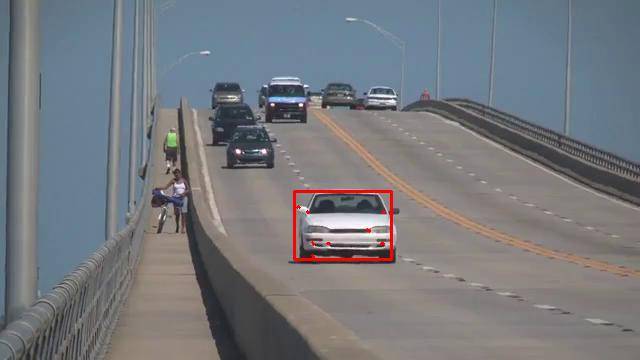
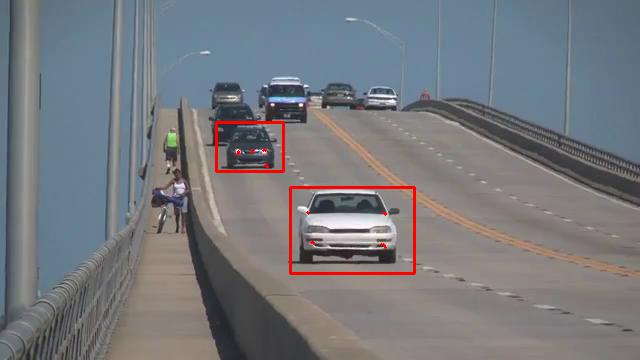
two object tracking DONE

Changed region(s): [[0.3125, 0.3056, 0.6562, 0.7639]]

diff --git a/objectTracking.py b/objectTracking.py
@@ -8,24 +8,21 @@ import cv2
 import numpy as np
 import matplotlib.pyplot as plt
 from applyGeometricTransformation import applyGeometricTransformation
+import imageio
 
 
 def objectTracking(rawVideo):
     videodata = skvideo.io.vread(rawVideo)
-    videodata = videodata[:30,:,:,:] # ONLY for testing, need to be comment out
+    videodata = videodata[:50,:,:,:] # ONLY for testing, need to be comment out
     scipy.misc.imsave('firstFrame.jpg', videodata[0,:,:,:])
-    num_of_box = 1
-    expected_feat_per_box = 8
+    num_of_box = 2
+    expected_feat_per_box = 4
+    windowSize = 10
 
     #for first frame
     img1_gray = rgb2gray(videodata[0,:,:,:])
     coor_matrix = boundingBox('firstFrame.jpg',num_of_box) #get x,y,w,h for bounding box
     feat_x, feat_y = getFeatures(img1_gray,coor_matrix,expected_feat_per_box) #get x,y for feature points
-    #     #get color for points
-    # scaled_itera = np.array(range(len(feat_x)))/(float(len(feat_x))-1)
-    # colors = plt.cm.coolwarm(scaled_itera)
-    # print(colors[:3])
-    # img1 = np.array(plt.scatter(feat_x, feat_y, color=colors))
     feat_x_flatten = feat_x.flatten()
     feat_y_flatten = feat_y.flatten()
     videodata[0,:,:,:][feat_y_flatten, feat_x_flatten] = [255,0,0]
@@ -37,17 +34,16 @@ def objectTracking(rawVideo):
     y = coor_matrix[:,1]
     w = coor_matrix[:,2]
     h = coor_matrix[:,3]
-    upperleft_corner=(x,y)
-    lowerright_corner = (x+w,y+h)
-    videodata[0,:,:,:] = cv2.rectangle(videodata[0,:,:,:], upperleft_corner, lowerright_corner, (255, 0, 0), 2)
+    upperleft_corner=np.array([x,y])
+    lowerright_corner = np.array([x+w,y+h])
+    for i in range(x.shape[0]):
+        videodata[0,:,:,:] = cv2.rectangle(videodata[0,:,:,:], tuple(upperleft_corner[:,i]), tuple(lowerright_corner[:,i]), (255, 0, 0), 2)
     scipy.misc.imsave(str(0)+'thFrame.jpg', videodata[0,:,:,:])
-    plt.imshow(videodata[0,:,:,:])
-    plt.show()
 
 
     for i in range(1,videodata.shape[0]):
         img2_gray = rgb2gray(videodata[i,:,:,:])
-        new_feat_x, new_feat_y = estimateAllTranslation(feat_x,feat_y,img1_gray,img2_gray)
+        new_feat_x, new_feat_y = estimateAllTranslation(feat_x,feat_y,img1_gray,img2_gray, windowSize)
         new_feat_x, new_feat_y, new_coor_matrix = applyGeometricTransformation(\
             feat_x, feat_y, new_feat_x, new_feat_y, coor_matrix)
         #plot feature points
@@ -58,24 +54,29 @@ def objectTracking(rawVideo):
         videodata[i,:,:,:][feat_y_flatten+1, feat_x_flatten] = [255,0,0]
         videodata[i,:,:,:][feat_y_flatten, feat_x_flatten-1] = [255,0,0]
         videodata[i,:,:,:][feat_y_flatten, feat_x_flatten+1] = [255,0,0]
+
         #plot bounding box
         x = new_coor_matrix[:,0]
         y = new_coor_matrix[:,1]
         w = new_coor_matrix[:,2]
         h = new_coor_matrix[:,3]
-        upperleft_corner=(x,y)
-        lowerright_corner = (x+w,y+h)
-        videodata[i,:,:,:] = cv2.rectangle(videodata[i,:,:,:], upperleft_corner, lowerright_corner, (255, 0, 0), 2)
+        upperleft_corner=np.array([x,y])
+        lowerright_corner = np.array([x+w,y+h])
+        for j in range(x.shape[0]):
+            videodata[i,:,:,:] = cv2.rectangle(videodata[i,:,:,:], tuple(upperleft_corner[:,j]), tuple(lowerright_corner[:,j]), (255, 0, 0), 2)
         scipy.misc.imsave(str(i)+'thFrame.jpg', videodata[i,:,:,:])
-        plt.imshow(videodata[i,:,:,:])
-        plt.show()
+        # plt.imshow(videodata[i,:,:,:])
+        # plt.show()
 
         #updating
         img1_gray = img2_gray
         coor_matrix = new_coor_matrix
         feat_x, feat_y = new_feat_x, new_feat_y
 
-
+    tracking_list = []
+    for i in range(videodata.shape[0]):
+        tracking_list.append(videodata[i, :, :, :])
+        imageio.mimsave('./eval_tracking.gif', tracking_list)
 
 if __name__== '__main__':
     file_name = 'Easy.mp4'

diff --git a/estimateFeatureTranslation.py b/estimateFeatureTranslation.py
@@ -1,36 +1,17 @@
-"""
-[newX, newY] = estimateFeatureTranslation(startX, startY, Ix, Iy, img1, img2)
-• (INPUT) startX: Represents the starting X coordinate for a single feature in the first frame
-• (INPUT) startY: Represents the starting Y coordinate for a single feature in the first frame
-• (INPUT) Ix: H × W matrix representing the gradient along the X-direction
-• (INPUT) Iy: H × W matrix representing the gradient along the Y-direction
-• (INPUT)img1:H×W×3matrixrepresentingthefirstimageframe
-• (INPUT)img2:H×W×3matrixrepresentingthesecondimageframe
-• (OUTPUT) newX: Represents the new X coordinate for a single feature in the second frame
-• (OUTPUT) newY: Represents the new Y coordinate for a single feature in the second frame
-"""
-
 import numpy as np
 from interp import interp2
 
 # img1, img2: gray scale
 def estimateFeatureTranslation(startX, startY, Ix, Iy, img1, img2, windowSize):
-    # # pad the images and coordinator
-    # img1 = np.pad(img1, ((windowSize, windowSize), (windowSize, windowSize)), 'constant')
-    # img2 = np.pad(img2, ((windowSize, windowSize), (windowSize, windowSize)), 'constant')
-    # Ix = np.pad(Ix, ((windowSize, windowSize), (windowSize, windowSize)), 'constant')
-    # Iy = np.pad(Iy, ((windowSize, windowSize), (windowSize, windowSize)), 'constant')
-    # startX = startX + windowSize
-    # startY = startY + windowSize
 
     newX = startX
     newY = startY
-    tol = 0.1
-    # error = 1
+    tol = 0.01
     midWindow = np.floor(windowSize/2)
     img1_window_start_x = int(startX-midWindow)
     img1_window_start_y = int(startY-midWindow)
-    max_iter = 100
+    max_iter = 1000
+
     for _ in range(max_iter):
         window_start_x = int(newX-midWindow)
         window_start_y = int(newY-midWindow)
@@ -55,49 +36,20 @@ def estimateFeatureTranslation(startX, startY, Ix, Iy, img1, img2, windowSize):
         b = It_window.flatten()
         b = -b
 
-        # difference = np.linalg.solve(A.transpose()@A,A.transpose()@b)
-
         A_pinv = np.linalg.pinv(A.transpose()@A)
 
         b = A.transpose()@b
 
         difference = A_pinv@b
-
-
-
-
-
-        # second_moment=np.zeros([2,2])
-        # second_moment[0,0] = np.sum(Ix_window*Ix_window)
-        # second_moment[0,1] = np.sum(Ix_window*Iy_window)
-        # second_moment[1,0] = np.sum(Iy_window*Ix_window)
-        # second_moment[1,1] = np.sum(Iy_window*Iy_window)
-        # b = np.zeros([2,1])
-        # b[0,0] = np.sum(Ix_window*It_window)
-        # b[1,0] = np.sum(Iy_window*It_window)
-        # b = -b
-        # inverse_second_moment = np.linalg.inv(second_moment)
-        # difference = np.dot(inverse_second_moment, b)
-
-        # difference = np.linalg.lstsq(second_moment,b)[0]
         u = difference[0]
         v = difference[1]
 
         # updating
-        # newX = newX + u
-        # newY = newY + v
-
         ZX = newX + u
         ZY = newY + v
-
         if np.sqrt((ZX-newX)**2+(ZY-newY)**2)<tol:
             return ZX, ZY
-
         newX = ZX
         newY = ZY
 
-        # error = np.linalg.norm(It_window)
-
-    # newX = newX-windowSize
-    # newY = newY-windowSize
     return newX, newY

diff --git a/applyGeometricTransformation.py b/applyGeometricTransformation.py
@@ -17,7 +17,7 @@ def xywh_to_ptsxy(bbox):
     return bbox_form
 
 def ptsxy_to_xywh(bbox_form):
-    bbox = np.zeros((bbox_form.shape[0],4))
+    bbox = np.zeros((bbox_form.shape[0],4)).astype(int)
     for i in range(bbox_form.shape[0]):
         corner_coor = bbox_form[i,:,:]
         (x,y) = corner_coor[0,:]
@@ -79,16 +79,23 @@ def applyGeometricTransformation(startXs, startYs, newXs, newYs, bbox):
 
         # newbbox_form[i,:,:] = newbbox_i.T
 
+        '''reconstruct a augmented box to regulate the rotated box(mapped by H matrix)'''
         aug_box_x_min = np.min(newbbox_i[0,:])
         aug_box_x_max = np.max(newbbox_i[0,:])
 
         aug_box_y_min = np.min(newbbox_i[1,:])
         aug_box_y_max = np.max(newbbox_i[1,:])
 
-        newbbox_i[:,0] = np.array([aug_box_x_min,aug_box_y_min])
-        newbbox_i[:,1] = np.array([aug_box_x_max,aug_box_y_min])
-        newbbox_i[:,2] = np.array([aug_box_x_min,aug_box_y_max])
-        newbbox_i[:,3] = np.array([aug_box_x_max,aug_box_y_max])
+        left_up_x = np.round((newbbox_i[0,0]+newbbox_i[0,2])/2).astype(int)
+        left_up_y = np.round((newbbox_i[1,0]+newbbox_i[1,1])/2).astype(int)
+
+        right_up_x = np.round((newbbox_i[0,1]+newbbox_i[0,3])/2).astype(int)
+        left_down_y = np.round((newbbox_i[1,2]+newbbox_i[1,3])/2).astype(int)
+
+        newbbox_i[:,0] = np.array([left_up_x,left_up_y])
+        newbbox_i[:,1] = np.array([right_up_x,left_up_y])
+        newbbox_i[:,2] = np.array([left_up_x,left_down_y])
+        newbbox_i[:,3] = np.array([right_up_x,left_down_y])
 
         newbbox_form[i,:,:] = newbbox_i.T
 
@@ -99,17 +106,14 @@ def applyGeometricTransformation(startXs, startYs, newXs, newYs, bbox):
         bbox_i_y_max = np.max(newbbox_i[1])
 
         # as long as one of the coor is out, the point is out
-        logic_x = np.logical_or(np.where(filter_newXs[:, i]>bbox_i_x_max),\
-                                np.where(filter_newXs[:, i]<bbox_i_x_min))
-        logic_y = np.logical_or(np.where(filter_newYs[:, i] > bbox_i_y_max), \
-                                np.where(filter_newYs[:, i] < bbox_i_y_min))
-        logic = np.logical_or(logic_x,logic_y)
-
         Xs_i = filter_newXs[:, i].copy()
         Ys_i = filter_newYs[:, i].copy()
-        if logic != []:
-            Xs_i[logic] = -1
-            Ys_i[logic] = -1
+
+        Xs_i[np.where(filter_newXs[:, i]>bbox_i_x_max)] = -1
+        Xs_i[np.where(filter_newXs[:, i]<bbox_i_x_min)] = -1
+
+        Ys_i[np.where(filter_newYs[:, i]>bbox_i_y_max)] = -1
+        Ys_i[np.where(filter_newYs[:, i]<bbox_i_y_min)] = -1
 
         Xs[:,i] = Xs_i[:]
         Ys[:,i] = Ys_i[:]

diff --git a/estimateAllTranslation.py b/estimateAllTranslation.py
@@ -15,7 +15,7 @@ from estimateFeatureTranslation import estimateFeatureTranslation
 
 # startXs: N × F
 # img1, img2: H×W
-def estimateAllTranslation(startXs, startYs, img1, img2):
+def estimateAllTranslation(startXs, startYs, img1, img2, windowSize=10):
     newXs = startXs.copy()
     newYs = startYs.copy()
     N,F = startXs.shape
@@ -28,11 +28,11 @@ def estimateAllTranslation(startXs, startYs, img1, img2):
         for n in range(N):
             startX = startXs[n,f]
             startY = startYs[n,f]
-            if (startX==-1 or startY==-1):
+            if (startX<windowSize or startY<windowSize):
                 newXs[n,f] = -1
                 newYs[n,f] = -1
             else:
-                new_x, new_y = estimateFeatureTranslation(startX, startY, Ix, Iy, img1, img2, windowSize=10)
+                new_x, new_y = estimateFeatureTranslation(startX, startY, Ix, Iy, img1, img2, windowSize)
                 newXs[n,f] = new_x
                 newYs[n,f] = new_y
 
